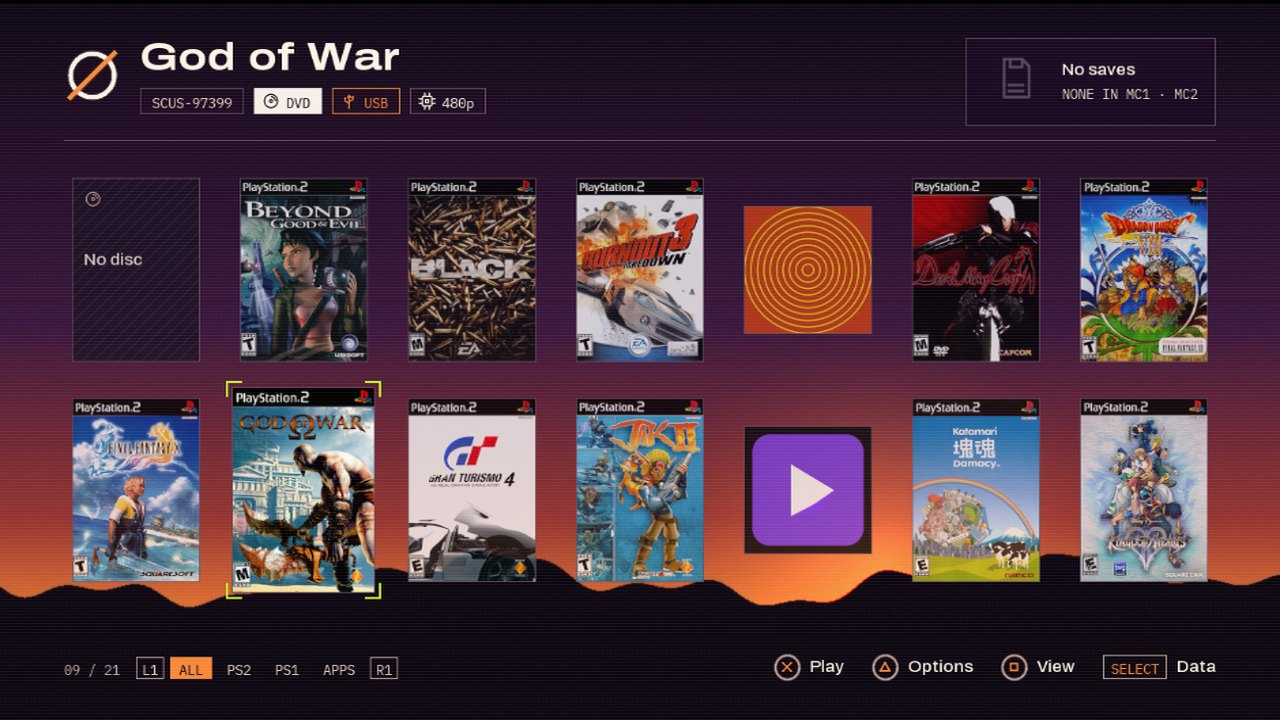
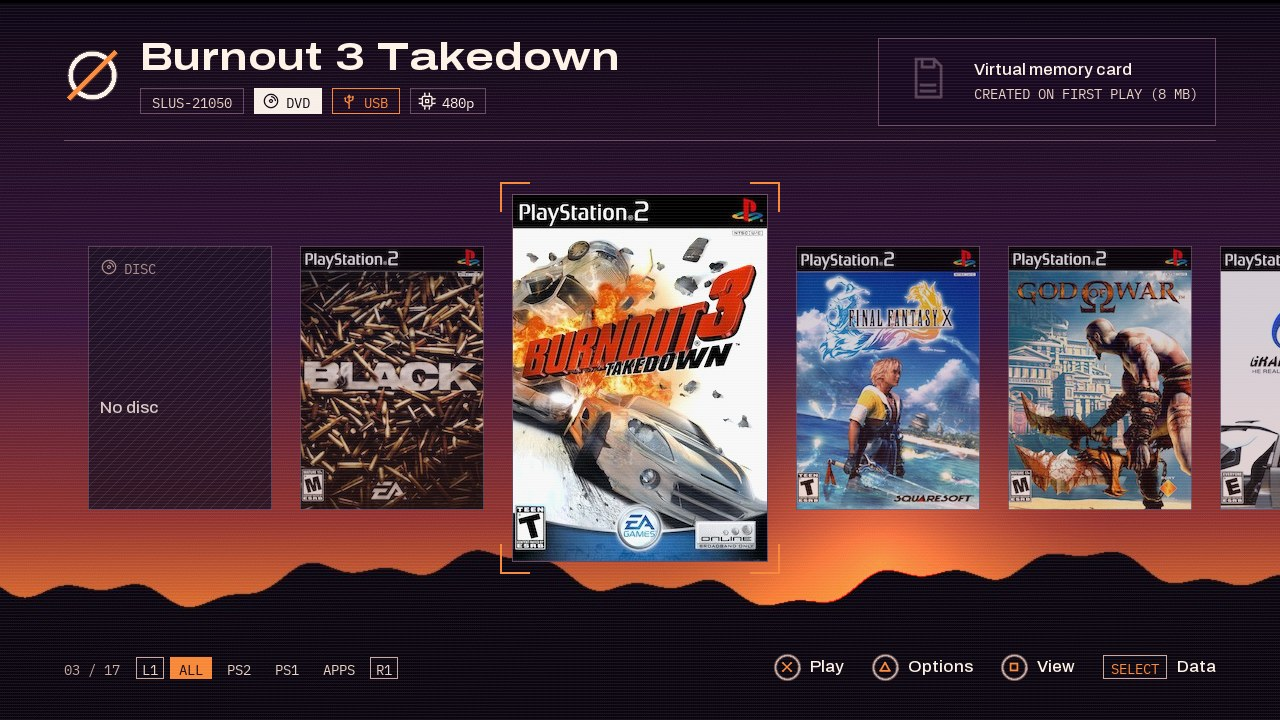
Release notes for v1.3: saving the setup without a restart, the disc title's language fix, the ten new themes seen on the console but not timed. Manual: the Ocaso figure retaken with the folder theme's own accent on the carousel

diff --git a/site/manual.html b/site/manual.html
@@ -178,7 +178,7 @@ curl http://localhost:18290/catalog      # what the PS2 will see</pre>
     <div>
       <p>Since v1.3 NULD has twelve themes: START, then <b>Theme</b>, and move left or right. Each one is shown at once behind the panel; <b>Save</b> keeps it. A theme has its own colours, background, loading screen and way of marking the selected game; the layout is the same in all of them.</p>
       <figure class="fig" style="margin: 0 0 28px">
-        <div class="frame"><img src="img/theme-ocaso.jpg" alt="Grid view with the example theme Ocaso: a dusk sky behind the covers, orange accent" width="1280" height="720" loading="lazy"></div>
+        <div class="frame"><img src="img/theme-ocaso.jpg" alt="Carousel with the example theme Ocaso: a dusk sky behind the covers, orange accent" width="1280" height="720" loading="lazy"></div>
         <figcaption>Fig. 5, Ocaso, the example theme: eleven colours and one picture.</figcaption>
       </figure>
       <h3>Make your own</h3>

diff --git a/docs/release-v1.3.md b/docs/release-v1.3.md
@@ -12,12 +12,18 @@ Themes: twelve looks for the launcher, a selector in the setup panel, and themes
   [manual](https://danielnuld.github.io/nuld/manual.html#themes) and in `docs/themes.md`.
 - **Theme maker.** A [page](https://danielnuld.github.io/nuld/themes.html) that builds that folder in the browser,
   with a live preview of the home screen, and downloads it as a zip.
+- **Saving the setup no longer restarts NULD.** Language, theme, memory card and video apply at once; it only
+  starts again when the game sources or the network changed.
 - **A loading sound for the new themes**: air rising and a low piano strike in a hall. NULD keeps its own.
+
+## Fixed
+
+- After changing the language in the setup panel, the disc's title on the home screen stayed in the old language.
 
 ## Known issues
 
-- Only Torres and NULD have been timed on a console (60 frames per second on a SCPH-75001). The other ten were sized
-  by the same rules and checked on PCSX2.
+- Only Torres and NULD have been timed on a console (60 frames per second on a SCPH-75001). The other ten ran on
+  the same console without visible stutter, but were not timed.
 
 ## Updating
 
